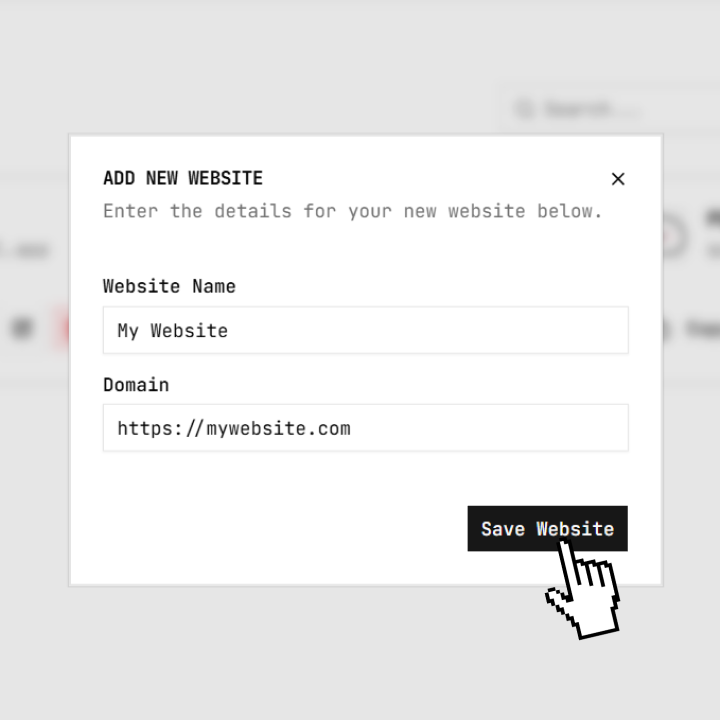
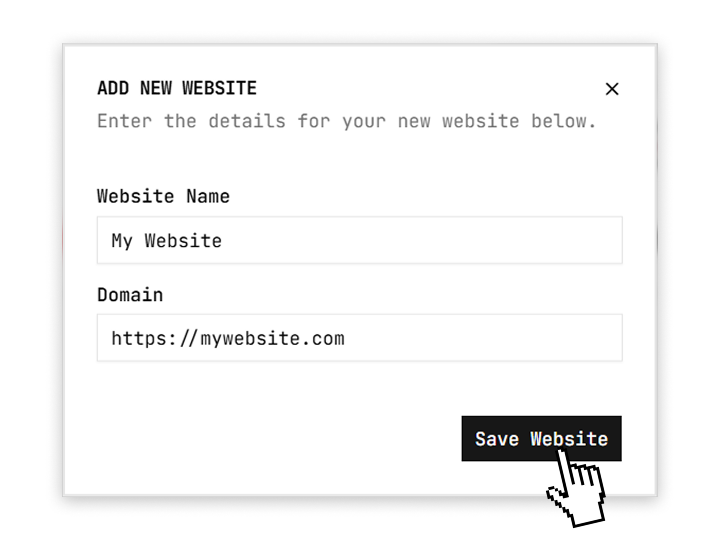
fixed integration section

diff --git a/src/components/landing/integration.jsx b/src/components/landing/integration.jsx
@@ -1,58 +1,113 @@
-import React from 'react';
+'use client';
+
+import React, { useState } from 'react';
+import Image from 'next/image';
+import { Check, Copy } from 'lucide-react';
+import { Button } from '@/components/ui/button';
 
 export default function Integration() {
-    return (
-        <div className="max-w-5xl w-full mx-auto px-4">
-            <div className="mb-16">
-                <h1 className="text-center text-muted-foreground font-bold text-xl md:text-2xl tracking-tight underline decoration-dashed decoration-2 underline-offset-8">
-                    Easy <span className="text-primary">Integration</span>
-                </h1>
-            </div>
+    const [copied, setCopied] = useState(false);
 
-            <div className="flex flex-col gap-16 md:gap-24">
-                <div className="flex flex-col md:flex-row items-start gap-8 md:gap-12">
-                    <div className="w-full md:w-1/2 flex justify-center">
-                        <img src="/add-website.png" alt="Add your website" className="w-full sm:max-w-82 aspect-square object-contain bg-muted border" />
+    const handleCopy = () => {
+        const snippet = '<script defer src="https://vertics.vercel.app/vertics.js" data-token="YOUR_SITE_TOKEN"></script>';
+        navigator.clipboard.writeText(snippet);
+        setCopied(true);
+        setTimeout(() => setCopied(false), 2000);
+    };
+
+    return (
+        <div className="max-w-5xl mx-auto px-4 py-16">
+            <h1 className="text-center text-muted-foreground font-bold text-2xl md:text-3xl tracking-tight underline decoration-dashed decoration-2 underline-offset-8 mb-20">
+                Easy <span className="text-primary">Integration</span>
+            </h1>
+
+            <div className="flex flex-col gap-10 max-w-4xl mx-auto">
+                <div className="grid grid-cols-1 md:grid-cols-2 gap-8 md:gap-12 items-center">
+                    <div className="w-full border bg-muted">
+                        <Image
+                            src="/add-website.png"
+                            alt="Add your website"
+                            width={800}
+                            height={600}
+                            className="w-full h-auto aspect-[4/3] object-contain"
+                        />
                     </div>
-                    <div className="w-full md:w-1/2 flex flex-col gap-4 md:pt-4">
-                        <h2 className="text-2xl font-bold flex items-center gap-4">
-                            <span className="flex items-center justify-center w-8 h-8 bg-primary text-primary-foreground text-sm">1</span>
+                    <div className="flex flex-col gap-3">
+                        <h2 className="text-xl font-semibold flex items-center gap-3">
+                            <span className="flex items-center justify-center w-7 h-7 bg-primary text-primary-foreground text-base">1</span>
                             Add your website
                         </h2>
-                        <p className="text-muted-foreground max-w-94">
-                            Add your website domain to vertices in your dashboard.
-                        </p>
+                        <div className="leading-relaxed text-muted-foreground">
+                            <p>Add your website domain to vertices in your dashboard.</p>
+
+                            <p className="mt-2">
+                                Supported formats:
+                            </p>
+
+                            <ul className="mt-1 list-disc pl-5">
+                                <li>yourdomain.com</li>
+                                <li>www.yourdomain.com</li>
+                                <li>https://yourdomain.com</li>
+                            </ul>
+                        </div>
                     </div>
                 </div>
 
-                <div className="flex flex-col md:flex-row-reverse items-start gap-8 md:gap-12">
-                    <div className="w-full md:w-1/2 flex justify-center">
-                        <img src="/copy-token.png" alt="Copy Your Token" className="w-full sm:max-w-82 aspect-square object-contain bg-muted border" />
+                <div className="grid grid-cols-1 md:grid-cols-2 gap-8 md:gap-12 items-center">
+                    <div className="w-full border bg-muted md:order-last">
+                        <Image
+                            src="/copy-token.png"
+                            alt="Copy Your Token"
+                            width={800}
+                            height={600}
+                            className="w-full h-auto aspect-[4/3] object-contain"
+                        />
                     </div>
-                    <div className="w-full md:w-1/2 flex flex-col gap-4 md:pt-4">
-                        <h2 className="text-2xl font-bold flex items-center gap-4">
-                            <span className="flex items-center justify-center w-8 h-8 bg-primary text-primary-foreground text-sm">2</span>
+                    <div className="flex flex-col gap-3">
+                        <h2 className="text-xl font-semibold flex items-center gap-3">
+                            <span className="flex items-center justify-center w-7 h-7 bg-primary text-primary-foreground text-base">2</span>
                             Copy Your Token
                         </h2>
-                        <p className="text-muted-foreground max-w-94">
-                            Grab the unique tracking token for your web site from the dashboard.
-                        </p>
+                        <div className="text-muted-foreground leading-relaxed">
+                            <p>Grab the unique tracking token for your web site from the dashboard.</p>
+                            <p className='mt-2'>
+                                <span className='font-bold'>Note:</span> This token is anonymous and safe to expose in frontend code.
+                            </p>
+                        </div>
                     </div>
                 </div>
 
-                <div className="flex flex-col md:flex-row items-start gap-8 md:gap-12">
-                    <div className="w-full md:w-1/2 flex justify-center">
-                        <img src="/add-script.png" alt="Install the Script" className="w-full sm:max-w-82 aspect-square object-contain bg-muted border" />
+                <div className="grid grid-cols-1 md:grid-cols-2 gap-8 md:gap-12 items-center">
+                    <div className="w-full border bg-muted">
+                        <Image
+                            src="/add-script.png"
+                            alt="Install the Script"
+                            width={800}
+                            height={600}
+                            className="w-full h-auto aspect-[4/3] object-contain"
+                        />
                     </div>
-                    <div className="w-full md:w-1/2 flex flex-col gap-4 md:pt-4">
-                        <h2 className="text-2xl font-bold flex items-center gap-4">
-                            <span className="flex items-center justify-center w-8 h-8 bg-primary text-primary-foreground text-sm">3</span>
+                    <div className="flex flex-col gap-3">
+                        <h2 className="text-xl font-semibold flex items-center gap-3">
+                            <span className="flex items-center justify-center w-7 h-7 bg-primary text-primary-foreground text-base">3</span>
                             Install the Script
                         </h2>
-                        <p className="text-muted-foreground max-w-94">
-                            Paste this snippet into your website's &lt;head&gt; section, replacing YOUR_SITE_TOKEN with your copied token.
+                        <p className="text-muted-foreground leading-relaxed">
+                            Paste this snippet into your website's &lt;head&gt; section, replacing <span className='font-bold'>YOUR_SITE_TOKEN</span> with your copied token.
                         </p>
-                        <div className="mt-2 w-full border max-w-94">
+
+                        <div className="mt-2 relative border border-border flex flex-col">
+                            <div className="flex items-center justify-between px-3 py-2 border-b border-border bg-muted/30">
+                                <span className="text-xs font-bold uppercase tracking-tight text-muted-foreground">HTML</span>
+                                <Button
+                                    variant="ghost"
+                                    size="icon"
+                                    className="h-6 w-6 text-muted-foreground hover:text-foreground"
+                                    onClick={handleCopy}
+                                >
+                                    {copied ? <Check className="h-3 w-3 text-green-500" /> : <Copy className="h-3 w-3" />}
+                                </Button>
+                            </div>
                             <div className="p-4 overflow-x-auto bg-zinc-950">
                                 <pre className="text-xs font-mono leading-relaxed whitespace-pre-wrap break-all">
                                     <span className="text-zinc-500">{"<"}</span>
@@ -70,6 +125,7 @@ export default function Integration() {
                                 </pre>
                             </div>
                         </div>
+
                     </div>
                 </div>
             </div>

diff --git a/src/components/landing/features.jsx b/src/components/landing/features.jsx
@@ -1,0 +1,12 @@
+import React from 'react';
+
+export default function Features() {
+    return (
+        <div className="max-w-5xl w-full mx-auto px-4">
+            <h1 className="text-center text-muted-foreground font-bold text-xl md:text-2xl tracking-tight underline decoration-dashed decoration-2 underline-offset-8 mb-16">
+                Detailed <span className="text-primary">analytics</span>
+            </h1>
+
+        </div>
+    )
+}

diff --git a/src/app/page.js b/src/app/page.js
@@ -2,6 +2,7 @@ import Navbar from "@/components/navbar"
 import Hero from "@/components/landing/hero"
 import Proof from "@/components/landing/proof"
 import Integration from "@/components/landing/integration"
+import Features from "@/components/landing/features"
 
 export default function Page() {
   return (
@@ -15,7 +16,7 @@ export default function Page() {
       <Hero />
       <Proof />
       <Integration />
-
+      <Features />
     </div>
   )
 }